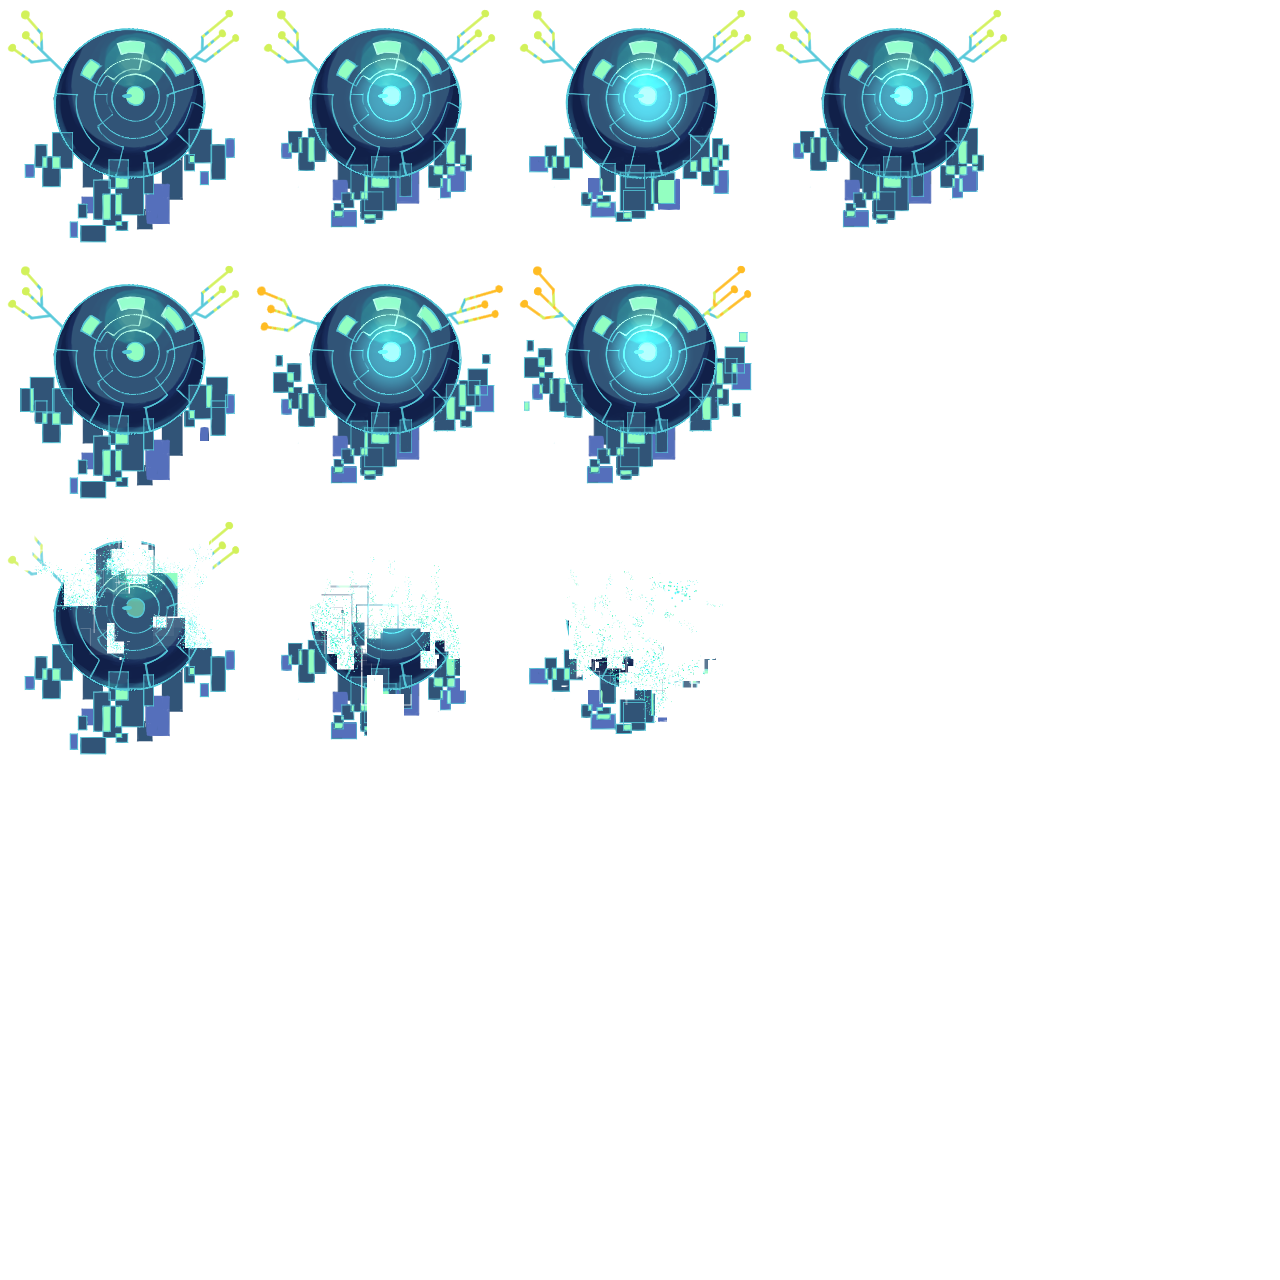
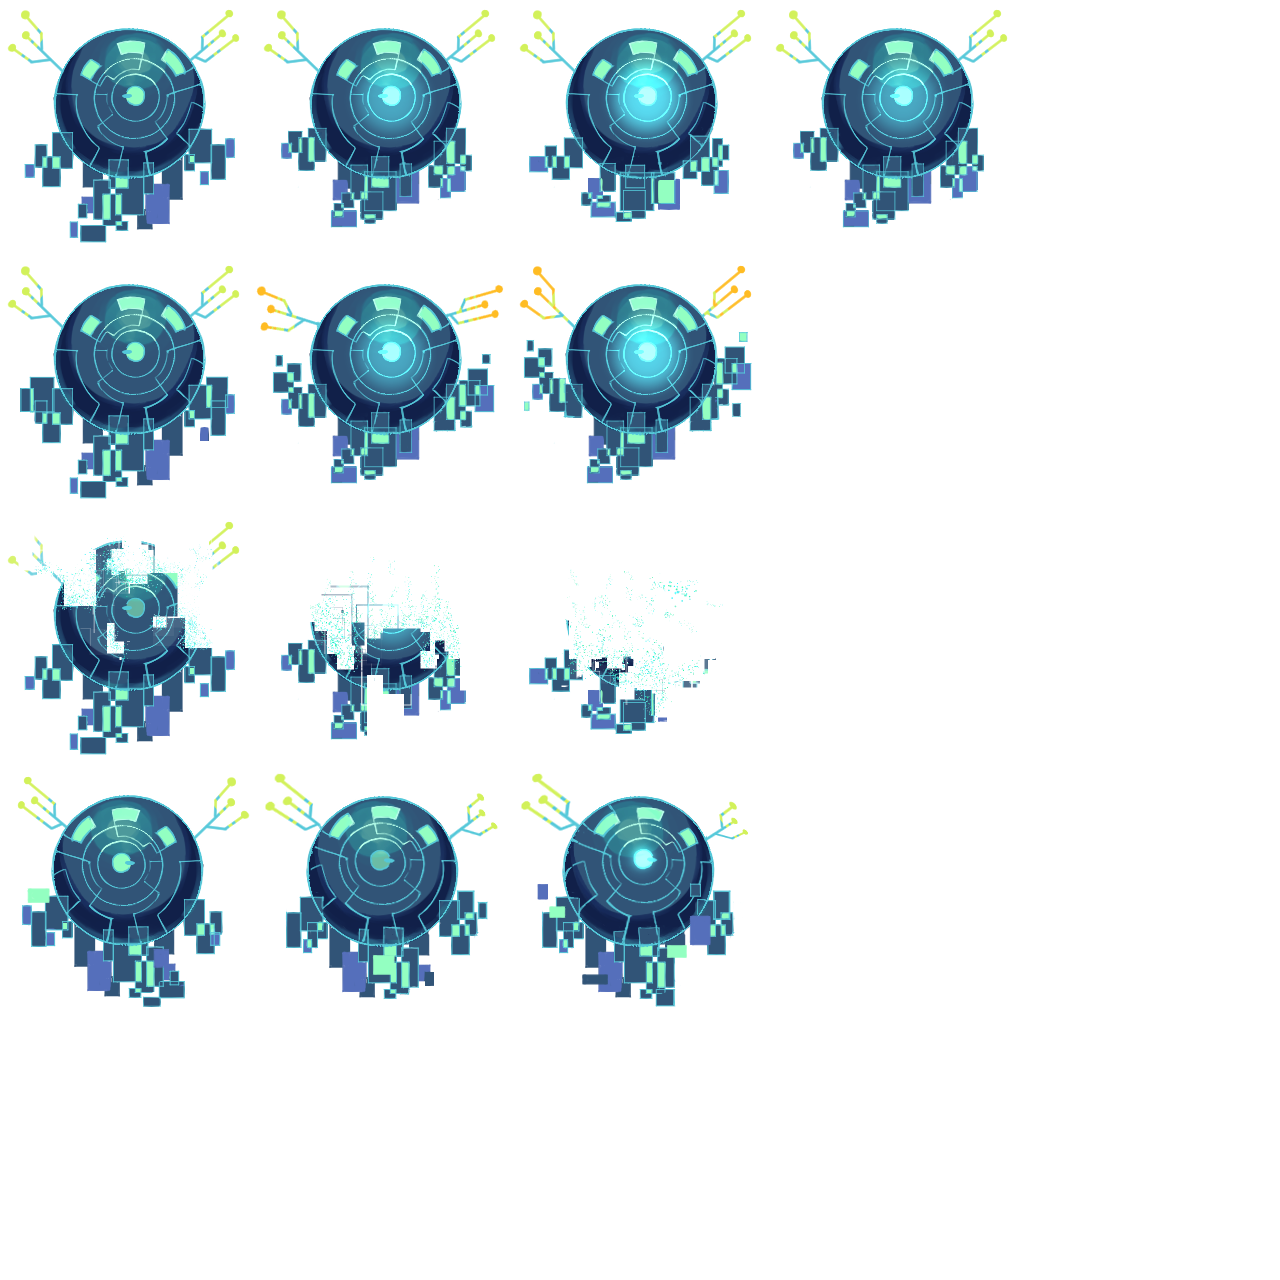
ボーナス追加

Changed region(s): [[0.0, 0.5938, 0.375, 0.7812], [0.4062, 0.5938, 0.5938, 0.7812]]

diff --git a/Project/Project/GameProject/Game/Enemy/EnemyAnimData.cpp b/Project/Project/GameProject/Game/Enemy/EnemyAnimData.cpp
@@ -10,17 +10,24 @@ static TexAnim enemy1Idle[] =
 
 static TexAnim enemy1Attack[] =
 {
-	{ 4,10 },
-	{ 5,30 },
-	{ 6,50 },
+	{ 5,10 },
+	{ 6,30 },
+	{ 7,50 },
 	
 };
+static TexAnim enemy1Damage[] =
+{
+	{ 14,2 },
+	{ 15,2 },
+	{ 16,2 },
 
+
+};
 static TexAnim enemy1Die[] =
 {
-	{ 8,2 },
-	{ 9,2 },
 	{ 10,2 },
+	{11,2 },
+	{ 12,2 },
 	
 
 };
@@ -29,6 +36,7 @@ TexAnimData enemy1_anim_data[] =
 {
 	ANIMDATA(enemy1Idle),
 	ANIMDATA(enemy1Attack),
+	ANIMDATA(enemy1Damage),
 	ANIMDATA(enemy1Die),
 };
 
@@ -70,6 +78,58 @@ TexAnimData enemy2_anim_data[] =
 	ANIMDATA(enemy2Jump),
 	ANIMDATA(enemy2Damage),
 	ANIMDATA(enemy2Die),
+};
+static TexAnim enemy3Idle[] =
+{
+	{ 6,15 },
+	{ 5,15 },
+	{ 4,15 },
+	{ 3,15 },
+};
+
+static TexAnim enemy3Jump[] =
+{
+	{ 13,10 },
+	{ 12,10 },
+	{ 11,10 },
+	{ 10,10 },
+	{ 9,10 },
+	{ 8,10 },
+	{ 7,10 },
+};
+
+static TexAnim enemy3Damage[] =
+{
+	{ 27,2 },
+	{ 26,2 },
+	{ 25,2 },
+};
+
+static TexAnim enemy3Die[] =
+{
+	{ 20,10 },
+	{ 19,10 },
+	{ 18,10 },
+	{ 17,10 },
+
+};
+static TexAnim enemy3Away[] =
+{
+	{ 34,10 },
+	{ 33,10 },
+	{ 32,10 },
+	{ 31,10 },
+	{ 30,10 },
+	{ 29,10 },
+
+};
+TexAnimData enemy3_anim_data[] =
+{
+	ANIMDATA(enemy3Idle),
+	ANIMDATA(enemy3Jump),
+	ANIMDATA(enemy3Damage),
+	ANIMDATA(enemy3Die),
+	ANIMDATA(enemy3Away),
 };
 
 static TexAnim boss1Idle[] =

diff --git a/Project/Project/GameProject/main.cpp b/Project/Project/GameProject/main.cpp
@@ -100,6 +100,7 @@ void Init(void)
 	ADD_RESOURCE("GunPlayer", CImage::CreateImage("Image/Player/Player2.png", player_anim_data, 256, 256));
 	ADD_RESOURCE("Enemy1", CImage::CreateImage("Image/Enemy/Enemy1.png", enemy1_anim_data, 256, 256));
 	ADD_RESOURCE("Enemy2", CImage::CreateImage("Image/Enemy/Enemy2.png", enemy2_anim_data, 256, 256));
+	ADD_RESOURCE("Bonus", CImage::CreateImage("Image/Enemy/Bonus.png", enemy3_anim_data, 256, 256));
 	ADD_RESOURCE("Boss1", CImage::CreateImage("Image/Boss/Boss.png", boss1_anim_data, 512, 512));
 	ADD_RESOURCE("Boss2", CImage::CreateImage("Image/Boss/Boss2.png", boss2_anim_data, 512, 512));
 	ADD_RESOURCE("BossHP", CImage::CreateImage("Image/UI/BossBar.png"));
